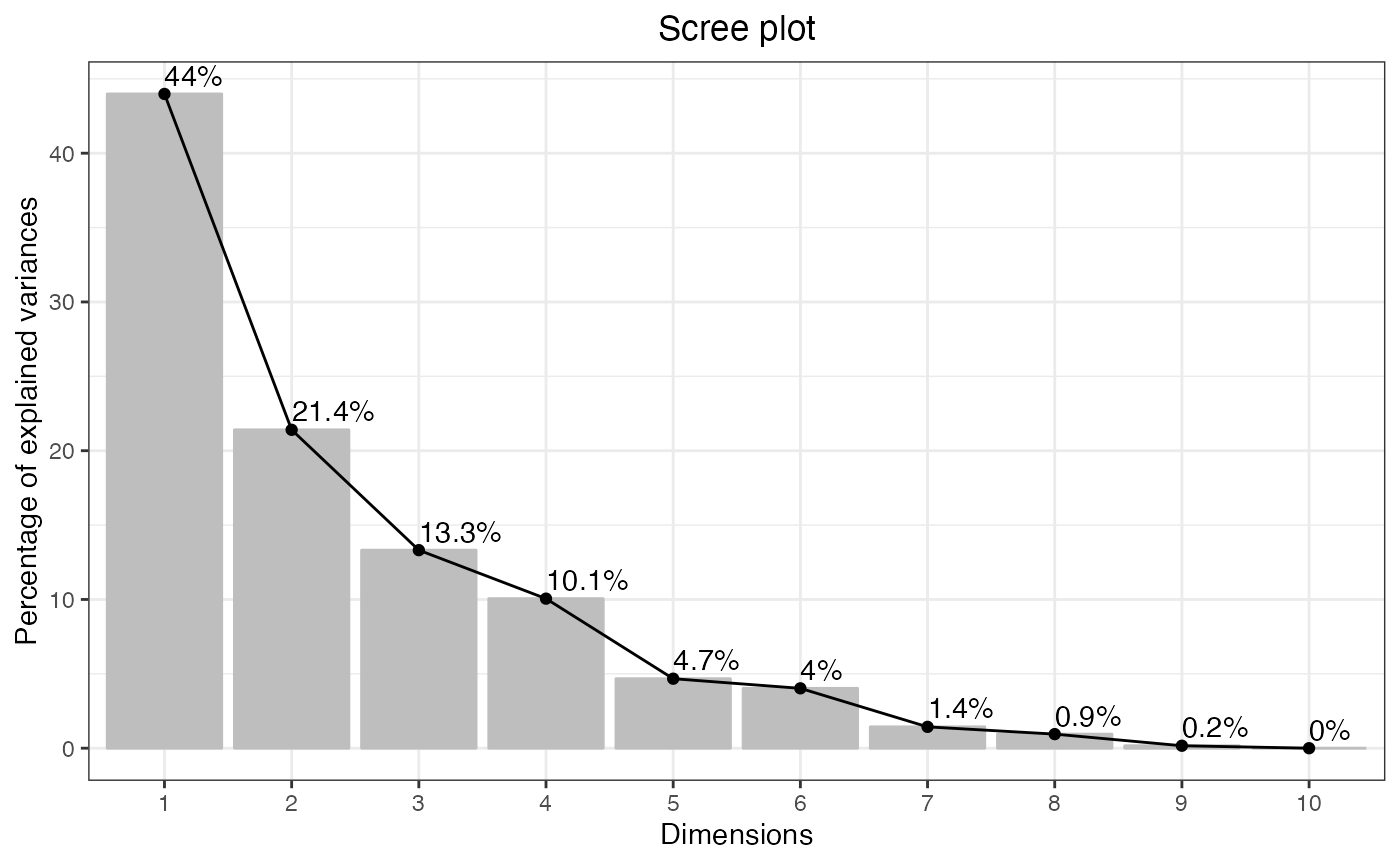
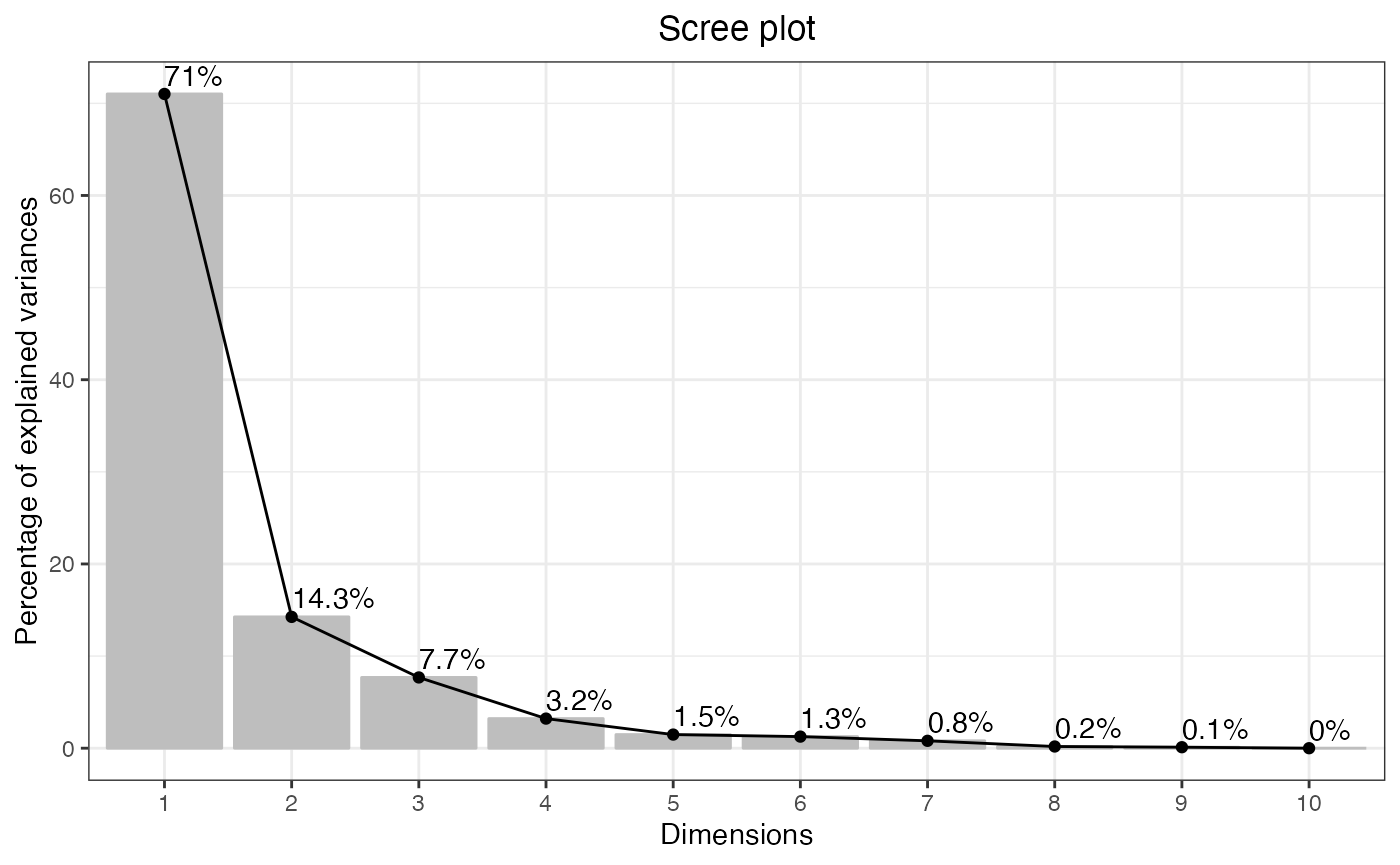
update visualize PCA; revise the vignette

diff --git a/docs/articles/usage_template.html b/docs/articles/usage_template.html
@@ -72,7 +72,7 @@
   <main id="main" class="col-md-9"><div class="page-header">
       <img src="" class="logo" alt=""><h1>A Usage Template for the R Package msDiaLogue</h1>
             
-            <h4 data-toc-skip class="date">2023-12-26</h4>
+            <h4 data-toc-skip class="date">2023-12-27</h4>
       
       <small class="dont-index">Source: <a href="https://github.com/uconn-scs/msDiaLogue/blob/HEAD/vignettes/usage_template.Rmd" class="external-link"><code>vignettes/usage_template.Rmd</code></a></small>
       <div class="d-none name"><code>usage_template.Rmd</code></div>
@@ -3442,137 +3442,169 @@ significance.</p>
 <p><img src="usage_template_files/figure-html/unnamed-chunk-32-1.png" width="700" style="display: block; margin: auto;"></p>
 </div>
 <div class="section level3">
-<h3 id="pca_scree">PCA_scree<a class="anchor" aria-label="anchor" href="#pca_scree"></a>
+<h3 id="pca">PCA<a class="anchor" aria-label="anchor" href="#pca"></a>
 </h3>
-<p>One way to help identify how many Principal Components (PCs) to
-retain, is to explore a scree plot. The scree plot shows the eigenvalues
-of each principal component, which represent the proportion of variance
-explained by that component.</p>
+<p>Principal component analysis (PCA) is a powerful technique used in
+data analysis to simplify and reduce the dimensionality of large
+datasets. It transforms original variables into uncorrelated components
+that capture the maximum variance. By selecting a subset of these
+components, PCA projects the data points onto these key directions,
+enabling visualization and analysis in a lower-dimensional space. This
+aids in identifying patterns and relationships within complex
+datasets.</p>
+<p>In the visualization for <code>graphType = "PCA_*"</code>, the
+arguments <code>center</code> and <code>scale</code> are used to center
+the data to zero mean and scale to unit variance, with default setting
+at <code>TRUE</code>. The most common error message is “Cannot rescale a
+constant/zero column to unit variance.” This clearly occurs when columns
+representing proteins contain only zeros or have constant values.
+Typically, there are two ways to address this error: one is to remove
+these proteins, and the other is to set <code>scale = FALSE</code>.</p>
+<p><strong>NOTE:</strong> data scaling is done to ensure that the scale
+differences between different features do not affect the results of PCA.
+If not scaled, features with larger scales will dominate the computation
+of principal components (PCs).</p>
+<p>In the case of <code>dataImput</code>, two proteins, namely
+“TEBP_HUMAN” and “T126B_HUMAN,” have constant values, leading to the
+error message. We choose to remove these two proteins in PCA.</p>
 <div class="sourceCode" id="cb20"><pre class="downlit sourceCode r">
-<code class="sourceCode R"><span><span class="fu"><a href="../reference/visualize.html">visualize</a></span><span class="op">(</span></span>
-<span>  <span class="va">dataImput</span><span class="op">[</span>,<span class="fu"><a href="https://rdrr.io/r/base/colnames.html" class="external-link">colnames</a></span><span class="op">(</span><span class="va">dataImput</span><span class="op">)</span> <span class="op">!=</span> <span class="fu"><a href="https://rdrr.io/r/base/c.html" class="external-link">c</a></span><span class="op">(</span><span class="st">"TEBP_HUMAN"</span>, <span class="st">"T126B_HUMAN"</span><span class="op">)</span><span class="op">]</span>,</span>
-<span>  graphType <span class="op">=</span> <span class="st">"PCA_scree"</span>,</span>
-<span>  addlabels <span class="op">=</span> <span class="cn">TRUE</span>, choice <span class="op">=</span> <span class="st">"variance"</span>, ncp <span class="op">=</span> <span class="fl">10</span><span class="op">)</span></span></code></pre></div>
-<p><img src="usage_template_files/figure-html/unnamed-chunk-33-1.png" width="700" style="display: block; margin: auto;"></p>
-</div>
-<div class="section level3">
-<h3 id="pca_ind">PCA_ind<a class="anchor" aria-label="anchor" href="#pca_ind"></a>
-</h3>
-<p>The primary Principal Component Analysis (PCA) plot of individual
-data visually represents the distribution of individual observations in
-a reduced-dimensional space, typically defined by the principal
-components. The x and y axes of the PCA plot represent the principal
-components. Each axis corresponds to a linear combination of the
-original variables. Individual data points on the PCA plot represent
-observations (e.g., samples) from the original dataset. Points that are
-close to the origin (0, 0), are close to the “average” across all
-protein abundances. If sufficient samples are present, the plot will
-also produce a 95% confidence ellipse, as well as a centroid (mean for
-each group provided), for each groups (condition) provided.</p>
+<code class="sourceCode R"><span><span class="va">dataPCA</span> <span class="op">&lt;-</span> <span class="va">dataImput</span><span class="op">[</span>,<span class="fu"><a href="https://rdrr.io/r/base/colnames.html" class="external-link">colnames</a></span><span class="op">(</span><span class="va">dataImput</span><span class="op">)</span> <span class="op">!=</span> <span class="fu"><a href="https://rdrr.io/r/base/c.html" class="external-link">c</a></span><span class="op">(</span><span class="st">"TEBP_HUMAN"</span>, <span class="st">"T126B_HUMAN"</span><span class="op">)</span><span class="op">]</span></span></code></pre></div>
+<div class="section level4">
+<h4 id="pca_scree">PCA_scree<a class="anchor" aria-label="anchor" href="#pca_scree"></a>
+</h4>
+<p>One way to help identify how many PCs to retain, is to explore a
+scree plot. The scree plot shows the eigenvalues of each PC, which
+represent the proportion of variance explained by that component.</p>
 <div class="sourceCode" id="cb21"><pre class="downlit sourceCode r">
-<code class="sourceCode R"><span><span class="fu"><a href="../reference/visualize.html">visualize</a></span><span class="op">(</span></span>
-<span>  <span class="va">dataImput</span><span class="op">[</span>,<span class="fu"><a href="https://rdrr.io/r/base/colnames.html" class="external-link">colnames</a></span><span class="op">(</span><span class="va">dataImput</span><span class="op">)</span> <span class="op">!=</span> <span class="fu"><a href="https://rdrr.io/r/base/c.html" class="external-link">c</a></span><span class="op">(</span><span class="st">"TEBP_HUMAN"</span>, <span class="st">"T126B_HUMAN"</span><span class="op">)</span><span class="op">]</span>,</span>
-<span>  graphType <span class="op">=</span> <span class="st">"PCA_ind"</span>,</span>
-<span>  addlabels <span class="op">=</span> <span class="cn">TRUE</span>, addEllipses <span class="op">=</span> <span class="cn">TRUE</span>, ellipse.level <span class="op">=</span> <span class="fl">0.95</span><span class="op">)</span></span></code></pre></div>
-<p><img src="usage_template_files/figure-html/unnamed-chunk-34-1.png" width="700" style="display: block; margin: auto;"></p>
-</div>
-<div class="section level3">
-<h3 id="pca_var">PCA_var<a class="anchor" aria-label="anchor" href="#pca_var"></a>
-</h3>
-<p>This plot will be more useful if your analyses are based on a
-relatively small number of proteins. It represents the assocation, or
-loading of each protein on the first two PCs. Longer arrows represents
-stronger associations. It is important to note that proteins that are
-weakly associated with PC 1 or PC2 may still be highly correlated with
-other PCs that are not being plotted. Use the scree plot (and other
-available methods) to determing the appropriate number of PCs to
-investigate.</p>
-<div class="sourceCode" id="cb22"><pre class="downlit sourceCode r">
-<code class="sourceCode R"><span><span class="fu"><a href="../reference/visualize.html">visualize</a></span><span class="op">(</span></span>
-<span>  <span class="va">dataImput</span><span class="op">[</span>,<span class="fu"><a href="https://rdrr.io/r/base/colnames.html" class="external-link">colnames</a></span><span class="op">(</span><span class="va">dataImput</span><span class="op">)</span> <span class="op">!=</span> <span class="fu"><a href="https://rdrr.io/r/base/c.html" class="external-link">c</a></span><span class="op">(</span><span class="st">"TEBP_HUMAN"</span>, <span class="st">"T126B_HUMAN"</span><span class="op">)</span><span class="op">]</span>,</span>
-<span>  graphType <span class="op">=</span> <span class="st">"PCA_var"</span>,</span>
-<span>  addlabels <span class="op">=</span> <span class="cn">TRUE</span><span class="op">)</span></span></code></pre></div>
+<code class="sourceCode R"><span><span class="fu"><a href="../reference/visualize.html">visualize</a></span><span class="op">(</span><span class="va">dataPCA</span>, graphType <span class="op">=</span> <span class="st">"PCA_scree"</span>, center <span class="op">=</span> <span class="cn">TRUE</span>, scale <span class="op">=</span> <span class="cn">TRUE</span>,</span>
+<span>          addlabels <span class="op">=</span> <span class="cn">TRUE</span>, choice <span class="op">=</span> <span class="st">"variance"</span>, ncp <span class="op">=</span> <span class="fl">10</span><span class="op">)</span></span>
+<span><span class="fu"><a href="../reference/visualize.html">visualize</a></span><span class="op">(</span><span class="va">dataPCA</span>, graphType <span class="op">=</span> <span class="st">"PCA_scree"</span>, center <span class="op">=</span> <span class="cn">TRUE</span>, scale <span class="op">=</span> <span class="cn">TRUE</span>,</span>
+<span>          addlabels <span class="op">=</span> <span class="cn">TRUE</span>, choice <span class="op">=</span> <span class="st">"eigenvalue"</span>, ncp <span class="op">=</span> <span class="fl">10</span><span class="op">)</span></span></code></pre></div>
+<p>where <code>choice</code> specifies the data to be plotted, either
+<code>"variance"</code> or <code>"eigenvalue"</code>,
+<code>addlabels = TRUE</code> adds information labels at the top of
+bars/points, and <code>ncp = 10</code> sets the number of dimension to
+be displayed.</p>
 <p><img src="usage_template_files/figure-html/unnamed-chunk-35-1.png" width="700" style="display: block; margin: auto;"></p>
 </div>
-<div class="section level3">
-<h3 id="pca_biplot">PCA_biplot<a class="anchor" aria-label="anchor" href="#pca_biplot"></a>
-</h3>
-<p>The PCA biplot includes the individual and the variable plots. Again,
-with too many proteins, this plot can be unwieldy.</p>
-<div class="sourceCode" id="cb23"><pre class="downlit sourceCode r">
-<code class="sourceCode R"><span><span class="fu"><a href="../reference/visualize.html">visualize</a></span><span class="op">(</span></span>
-<span>  <span class="va">dataImput</span><span class="op">[</span>,<span class="fu"><a href="https://rdrr.io/r/base/colnames.html" class="external-link">colnames</a></span><span class="op">(</span><span class="va">dataImput</span><span class="op">)</span> <span class="op">!=</span> <span class="fu"><a href="https://rdrr.io/r/base/c.html" class="external-link">c</a></span><span class="op">(</span><span class="st">"TEBP_HUMAN"</span>, <span class="st">"T126B_HUMAN"</span><span class="op">)</span><span class="op">]</span>,</span>
-<span>  graphType <span class="op">=</span> <span class="st">"PCA_biplot"</span>,</span>
-<span>  addEllipses <span class="op">=</span> <span class="cn">TRUE</span>, ellipse.level <span class="op">=</span> <span class="fl">0.95</span>, label <span class="op">=</span> <span class="st">"all"</span><span class="op">)</span></span></code></pre></div>
+<div class="section level4">
+<h4 id="pca_ind">PCA_ind<a class="anchor" aria-label="anchor" href="#pca_ind"></a>
+</h4>
+<p>The primary PCA plot of individual data visually represents the
+distribution of individual observations in a reduced-dimensional space,
+typically defined by the PCs. The x and y axes of the PCA plot represent
+the PCs. Each axis corresponds to a linear combination of the original
+variables. Individual data points on the PCA plot represent observations
+(e.g., samples) from the original dataset. Points that are close to the
+origin (0, 0), are close to the “average” across all protein abundances.
+If sufficient samples are present, the plot will also produce a 95%
+confidence ellipse, as well as a centroid (mean for each group
+provided), for each groups (condition) provided.</p>
+<div class="sourceCode" id="cb22"><pre class="downlit sourceCode r">
+<code class="sourceCode R"><span><span class="fu"><a href="../reference/visualize.html">visualize</a></span><span class="op">(</span><span class="va">dataPCA</span>, graphType <span class="op">=</span> <span class="st">"PCA_ind"</span>, center <span class="op">=</span> <span class="cn">TRUE</span>, scale <span class="op">=</span> <span class="cn">TRUE</span>,</span>
+<span>          addlabels <span class="op">=</span> <span class="cn">TRUE</span>, addEllipses <span class="op">=</span> <span class="cn">TRUE</span>, ellipse.level <span class="op">=</span> <span class="fl">0.95</span><span class="op">)</span></span></code></pre></div>
 <p><img src="usage_template_files/figure-html/unnamed-chunk-36-1.png" width="700" style="display: block; margin: auto;"></p>
+</div>
+<div class="section level4">
+<h4 id="pca_var">PCA_var<a class="anchor" aria-label="anchor" href="#pca_var"></a>
+</h4>
+<p>This plot will be more useful if your analyses are based on a
+relatively small number of proteins. It represents the association, or
+loading of each protein on the first two PCs. Longer arrows represents
+stronger associations. It is important to note that proteins that are
+weakly associated with PC1 or PC2 may still be highly correlated with
+other PCs not being plotted. Consult the scree plot (and other available
+methods) to determine the appropriate number of PCs to investigate.</p>
+<div class="sourceCode" id="cb23"><pre class="downlit sourceCode r">
+<code class="sourceCode R"><span><span class="fu"><a href="../reference/visualize.html">visualize</a></span><span class="op">(</span><span class="va">dataPCA</span>, graphType <span class="op">=</span> <span class="st">"PCA_var"</span>, center <span class="op">=</span> <span class="cn">TRUE</span>, scale <span class="op">=</span> <span class="cn">TRUE</span>,</span>
+<span>          addlabels <span class="op">=</span> <span class="cn">TRUE</span><span class="op">)</span></span></code></pre></div>
+<p><img src="usage_template_files/figure-html/unnamed-chunk-37-1.png" width="700" style="display: block; margin: auto;"></p>
+</div>
+<div class="section level4">
+<h4 id="pca_biplot">PCA_biplot<a class="anchor" aria-label="anchor" href="#pca_biplot"></a>
+</h4>
+<p>The PCA biplot includes individual and variable plots. Again, with a
+large number of proteins, this plot can be unwieldy.</p>
+<div class="sourceCode" id="cb24"><pre class="downlit sourceCode r">
+<code class="sourceCode R"><span><span class="fu"><a href="../reference/visualize.html">visualize</a></span><span class="op">(</span><span class="va">dataPCA</span>, graphType <span class="op">=</span> <span class="st">"PCA_biplot"</span>, center <span class="op">=</span> <span class="cn">TRUE</span>, scale <span class="op">=</span> <span class="cn">TRUE</span>,</span>
+<span>          addEllipses <span class="op">=</span> <span class="cn">TRUE</span>, ellipse.level <span class="op">=</span> <span class="fl">0.95</span>, label <span class="op">=</span> <span class="st">"all"</span><span class="op">)</span></span></code></pre></div>
+<p><img src="usage_template_files/figure-html/unnamed-chunk-38-1.png" width="700" style="display: block; margin: auto;"></p>
+</div>
 </div>
 <div class="section level3">
 <h3 id="t-test">t-test<a class="anchor" aria-label="anchor" href="#t-test"></a>
 </h3>
-<p>The ‘visualize’ function can be applied to any t-test output. It
-generates two useful plots: a histgram of fold changes across the
-analyzed proteins and a histogram of p-values. We expect that the
-majority of proteins will show very small change between conditions, and
+<p>The function <code><a href="../reference/visualize.html">visualize()</a></code> can be applied to any t-test
+output. It generates two useful plots: a histogram of fold changes
+across the analyzed proteins and a histogram of P-values. The majority
+of proteins are expected to show very small change between conditions,
 so the fold change histogram will have a peak at around zero. For the
-p-values, we would expect most p-values to be non-significant (above
-0.05). Depending on the strength of the treatment effect, there may be a
-peak of p-values near 0.</p>
-<div class="sourceCode" id="cb24"><pre class="downlit sourceCode r">
+P-values, most P-values are expected to be non-significant (above 0.05).
+Depending on the strength of the treatment effect, there may be a peak
+of p-values near 0.</p>
+<div class="sourceCode" id="cb25"><pre class="downlit sourceCode r">
 <code class="sourceCode R"><span><span class="fu"><a href="../reference/visualize.html">visualize</a></span><span class="op">(</span><span class="va">anlys_mod.t</span>, graphType <span class="op">=</span> <span class="st">"t-test"</span><span class="op">)</span></span></code></pre></div>
-<p><img src="usage_template_files/figure-html/unnamed-chunk-37-1.png" width="700" style="display: block; margin: auto;"></p>
+<p><img src="usage_template_files/figure-html/unnamed-chunk-39-1.png" width="700" style="display: block; margin: auto;"></p>
 </div>
 <div class="section level3">
 <h3 id="upset">Upset<a class="anchor" aria-label="anchor" href="#upset"></a>
 </h3>
-<p>The upset plot is visual representation that helps display the
+<p>The upset plot is a visual representation that helps display the
 overlap and intersection of sets or categories in a dataset. It is
 particularly useful for illustrating the presence or absence of elements
-in combinations of sets. Here, we can see that there are 18 proteins in
-common between 100fmol and 50fmol, and 1 protein that is unique to
-100fmol.</p>
-<div class="sourceCode" id="cb25"><pre class="downlit sourceCode r">
+in combinations of sets.</p>
+<div class="sourceCode" id="cb26"><pre class="downlit sourceCode r">
 <code class="sourceCode R"><span><span class="va">dataSort</span> <span class="op">&lt;-</span> <span class="fu"><a href="../reference/sortcondition.html">sortcondition</a></span><span class="op">(</span><span class="va">dataSet</span><span class="op">)</span></span>
 <span><span class="fu"><a href="../reference/visualize.html">visualize</a></span><span class="op">(</span><span class="va">dataSort</span>, graphType <span class="op">=</span> <span class="st">"Upset"</span><span class="op">)</span></span></code></pre></div>
-<p><img src="usage_template_files/figure-html/unnamed-chunk-38-1.png" width="700" style="display: block; margin: auto;"></p>
+<p><img src="usage_template_files/figure-html/unnamed-chunk-40-1.png" width="700" style="display: block; margin: auto;"></p>
+<p>This plot reveals that 18 proteins are in common between 100fmol and
+50fmol, while only 1 protein is unique to 100fmol.</p>
 </div>
 <div class="section level3">
 <h3 id="venn">Venn<a class="anchor" aria-label="anchor" href="#venn"></a>
 </h3>
-<p>The Venn plot is visual representation that helps display the overlap
-and intersection of sets or categories in a dataset. It is particularly
-useful for illustrating the presence or absence of elements in
-combinations of sets. In the exampl below, we can see that the 100fmol
-and 50fmol groups share 18 proteins from this sample. There is 1 protein
-only found in the 100fmol group, and zero unique proteins in the 50fmol
-group</p>
-<div class="sourceCode" id="cb26"><pre class="downlit sourceCode r">
+<p>The Venn plot is another graphical representation of the
+relationships between sets. Each circle represents a set, and the
+overlapping regions show the elements that are shared between sets.</p>
+<div class="sourceCode" id="cb27"><pre class="downlit sourceCode r">
 <code class="sourceCode R"><span><span class="fu"><a href="../reference/visualize.html">visualize</a></span><span class="op">(</span><span class="va">dataSort</span>, graphType <span class="op">=</span> <span class="st">"Venn"</span>,</span>
 <span>          show_percentage <span class="op">=</span> <span class="cn">TRUE</span>,</span>
 <span>          fill_color <span class="op">=</span> <span class="fu"><a href="https://rdrr.io/r/base/c.html" class="external-link">c</a></span><span class="op">(</span><span class="st">"blue"</span>, <span class="st">"yellow"</span>, <span class="st">"green"</span>, <span class="st">"red"</span><span class="op">)</span>,</span>
 <span>          show_universal <span class="op">=</span> <span class="cn">FALSE</span><span class="op">)</span></span></code></pre></div>
-<p><img src="usage_template_files/figure-html/unnamed-chunk-39-1.png" width="700" style="display: block; margin: auto;"></p>
+<p><img src="usage_template_files/figure-html/unnamed-chunk-41-1.png" width="700" style="display: block; margin: auto;"></p>
+<p>In the example above, 100fmol and 50fmol groups share 18 proteins.
+Notably, one protein is exclusively found in the 100fmol group, while
+the 50fmol group lacks any unique proteins.</p>
 </div>
 <div class="section level3">
 <h3 id="volcano">Volcano<a class="anchor" aria-label="anchor" href="#volcano"></a>
 </h3>
-<p>One of the most widely used proteomics plots is the volcano plot. The
-x-axis represents the fold change, and the y-value represents the <span class="math inline">\(-log_{10}p-value\)</span>.</p>
-<div class="sourceCode" id="cb27"><pre class="downlit sourceCode r">
+<p>A volcano plot is a graphical representation commonly used in
+proteomics and genomics to visualize differential expression analysis
+results. It is particularly useful for identifying significant changes
+in extensive data. It displays two important pieces of information about
+differences between conditions in a dataset:</p>
+<ul>
+<li><p>Statistical significance (vertical): Represents the negative
+log10 of the P-value.</p></li>
+<li><p>Fold change (horizontal): Represents the fold change.</p></li>
+</ul>
+<div class="sourceCode" id="cb28"><pre class="downlit sourceCode r">
 <code class="sourceCode R"><span><span class="fu"><a href="../reference/visualize.html">visualize</a></span><span class="op">(</span><span class="va">anlys_mod.t</span>, graphType <span class="op">=</span> <span class="st">"volcano"</span>,</span>
 <span>          P.thres <span class="op">=</span> <span class="fl">0.05</span>, logF.thres <span class="op">=</span> <span class="fl">0.6</span><span class="op">)</span></span>
 <span><span class="co">#&gt; Warning: Removed 15 rows containing missing values</span></span>
 <span><span class="co">#&gt; (`geom_text_repel()`).</span></span></code></pre></div>
-<p><img src="usage_template_files/figure-html/unnamed-chunk-40-1.png" width="700" style="display: block; margin: auto;"></p>
+<p><img src="usage_template_files/figure-html/unnamed-chunk-42-1.png" width="700" style="display: block; margin: auto;"></p>
 </div>
 </div>
 <div class="section level2">
 <h2 id="other-useful-function">Other useful function<a class="anchor" aria-label="anchor" href="#other-useful-function"></a>
 </h2>
 <p>To easily extract all quantitative data for a single protein or set
-of proteins by name as it was processed throughout the entire msDiaLogue
-workflow, use the function <code>pullProteinPath</code> and the
-protein’s unique name.</p>
-<div class="sourceCode" id="cb28"><pre class="downlit sourceCode r">
+of proteins by name as it was processed throughout the entire
+<strong>msDiaLogue</strong> workflow, use the function
+<code><a href="../reference/pullProteinPath.html">pullProteinPath()</a></code> and the protein’s unique name.</p>
+<div class="sourceCode" id="cb29"><pre class="downlit sourceCode r">
 <code class="sourceCode R"><span><span class="va">ZC11B</span> <span class="op">&lt;-</span> <span class="fu"><a href="../reference/pullProteinPath.html">pullProteinPath</a></span><span class="op">(</span>proteinName <span class="op">=</span> <span class="st">"ZC11B_HUMAN"</span>,</span>
 <span>                         dataSetList <span class="op">=</span> <span class="fu"><a href="https://rdrr.io/r/base/list.html" class="external-link">list</a></span><span class="op">(</span>Initial <span class="op">=</span> <span class="va">dataSet</span>,</span>
 <span>                                            Transformed <span class="op">=</span> <span class="va">dataTran</span>,</span>

diff --git a/docs/reference/visualize.html b/docs/reference/visualize.html
@@ -64,6 +64,8 @@
 <span>  show_rownames <span class="op">=</span> <span class="cn">TRUE</span>,</span>
 <span>  M.thres <span class="op">=</span> <span class="fl">1</span>,</span>
 <span>  transformLabel <span class="op">=</span> <span class="cn">NULL</span>,</span>
+<span>  center <span class="op">=</span> <span class="cn">TRUE</span>,</span>
+<span>  scale <span class="op">=</span> <span class="cn">TRUE</span>,</span>
 <span>  addlabels <span class="op">=</span> <span class="cn">TRUE</span>,</span>
 <span>  choice <span class="op">=</span> <span class="st">"variance"</span>,</span>
 <span>  ncp <span class="op">=</span> <span class="fl">10</span>,</span>
@@ -138,6 +140,20 @@ to plot the two vertical lines (-M.thres and M.thres) on the MA plot when
 <dt>transformLabel</dt>
 <dd><p>A string used to label the title of the transformation type for
 the transformed MA plot when <code>graphType = "MA"</code>.</p></dd>
+
+
+<dt>center</dt>
+<dd><p>A boolean (default = TRUE) indicating whether the variables should be
+shifted to be zero centered when <code>graphType = "PCA_scree"</code>,
+<code>graphType = "PCA_ind"</code>, <code>graphType = "PCA_var"</code>, or
+<code>graphType = "PCA_biplot"</code>.</p></dd>
+
+
+<dt>scale</dt>
+<dd><p>A boolean (default = TRUE) indicating whether the variables should be
+scaled to have unit variance before the analysis takes place when
+<code>graphType = "PCA_scree"</code>, <code>graphType = "PCA_ind"</code>,
+<code>graphType = "PCA_var"</code>, or <code>graphType = "PCA_biplot"</code>.</p></dd>
 
 
 <dt>addlabels</dt>
